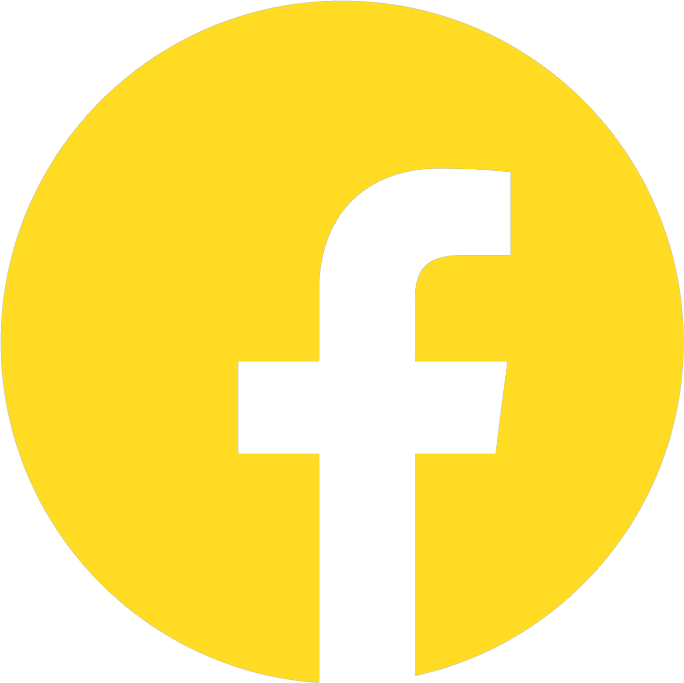
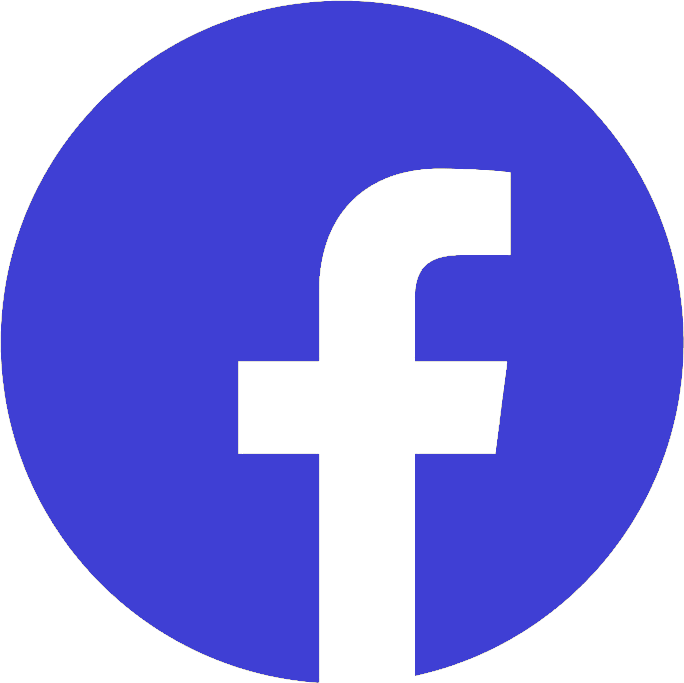
preliminary update

diff --git a/index.html b/index.html
@@ -27,9 +27,10 @@
 			<div class="logo"></div>
 
 			<div class="links">
-				<div class="link facebook" onClick="goLink('https://www.facebook.com/moldovakaratedo')"></div>
-				<div class="link instagram" onClick="goLink('https://www.instagram.com/moldovakaratewkf/')"></div>
-				<div class="link wkf" onClick="goLink('https://www.wkf.net/')"></div>
+				<div class="link" style="background-image: url(img/wkf-logo.png);" onClick="goLink('https://www.wkf.net/')"></div>
+				<div class="link" style="background-image: url(img/ekf.png);" onClick="goLink('http://www.europeankaratefederation.net/')"></div>
+				<div class="link" style="background-image: url(img/olympic-logo.png);" onClick="goLink('https://olympic.md/')"></div>
+				<div class="link" style="background-image: url(img/mec-logo.png);" onClick="goLink('https://mec.gov.md/ro')"></div>
 			</div>
 		</div>
 
@@ -37,7 +38,7 @@
 			<div><p class="text-head subhead">ORGANIZAȚIE SPORTIVĂ</p></div>
 			<div><p class="text-head big">Federația Națională</p></div>
 			<div><p class="text-head big">de Karate-Do</p></div>
-			<div><p class="text-head small">din Republica Moldova</p></div>
+			<div><p class="text-head small">din Republica Moldova WKF</p></div>
 		</div>
 
 		<!-- <div class="scroll"><a class="arrow" href="#godown"></a></div> -->
@@ -46,18 +47,22 @@
 	<div class="oficial" id="godown">
 		<div class="text-oficial">
 			<div class="subhead-oficial"><p>DESPRE NOI</p></div>
-			<div class="header-oficial"><p>FNK RM WKF este singurul reprezentant oficial în Republica Moldova al Federației Mondiale de Karate.</p></div>
+			<div class="header-oficial"><p>FNK RM WKF este, din anul 2008, reprezentantul oficial al Federației Mondiale de Karate WKF în Republica Moldova.</p></div>
 
 			<div class="main-oficial">
 				<div class="oficial-hr"><hr></div>
 				<!-- <p>侍の言葉</p> -->
 				<div class="smalltext-oficial">
-					<p class="small-subhead-oficial">Federația Națională de Karate-Do din Republica Moldova (WKF) are drept scop promovarea și dezvoltarea Karate-Do în Republica Moldova.</p>
-					<p>Este o organizație necomercială de nivel republican, fondată la 17 mai 2007.</p>
-					<p>La nivel național, FNK RM WKF este recunoscută de către Ministerul Justiției drept organizație de utilitate publică, 
-						conlucrând activ cu structurile sportive locale precum Comitetul Național Olimpic și Sportiv (CNOS) și Ministerul Educației și Cercetării.</p> 
-					<p>Pe planul internațional, este membră a Federației Mondiale de Karate 
-						(World Karate Federation) și a Federației Europene de Karate (European Karate Federation).</p>
+					<p class="small-subhead-oficial">Este o organizație necomercială de nivel republican, fondată la 17 mai 2007.</p>
+					<p>Președintele Federației este Oleg ABALIN, deținător al gradului 7 Dan, 
+						Antrenor Emerit al Republicii Moldova.</p>
+					<p>Federația Mondială de Karate (WKF) și Federația Europeană de Karate (EKF) (Președinte:
+						Antonio ESPINÓS) sunt recunoscute de Comitetul Internațional Olimpic (CIO). De asemenea, aceste
+						organizații fac parte din structura SportAccord - asociația globală a federațiilor sportive
+						internaționale, cu sediul la Lausanne, (Elveția) Switzerland.</p>
+					<p>Prima apariție a karate-ului WKF ca sport olimpic a avut loc în anul 2020, în țara de origine a
+						karate-ului, pe același stadion unde s-a desfășurat primul Campionat Mondial de Karate -
+						Nippon Budokan din Tokyo.</p>
 				</div>
 			</div>
 		</div>
@@ -115,16 +120,22 @@
 
 			<div class="main-oficial">
 				<div class="smalltext-oficial">
-					<p>Specializăm atât în sport-luptă Karate-Do, cât și în arta de Karate-Do - kata.</p>
-					<p>Te așteaptă competiții internaționale, gimnastica profilactică și terapeutică pentru corp puternic și spirit sănătos precum și activități pentru părinți alături de copii.</p>
-					<p>Posibil și carieră profesională în Karate-Do: arbitri, antrenori sau voluntari.</p>
-					<p>Vino tu și adu-ți copiii, devii parte din familia karateka!</p>
+					<p>La nivel național, Federația este recunoscută de Ministerul Justiției ca organizație de utilitate
+						publică și colaborează, de asemenea, cu Ministerul Educației și Cercetării, Comitetul Național
+						Olimpic și Sportiv, precum și cu alte structuri de stat și sportive, inclusiv Direcția Educație,
+						Tineret și Sport și Agenția Antidoping.</p> 
+					<p>La nivel internațional, FNK RM WKF este membră a Federației Mondiale de Karate WKF, care
+						numără 201 țări participante. În anul 2008, la Campionatul Mondial din Japonia, FNK RM WKF
+						a devenit reprezentant oficial al WKF. Primii sportivi care au participat au fost Oleg ABALIN și
+						Anna Maria STRATU, care au reprezentat Republica Moldova la Campionatele Mondiale de la
+						Tokyo, Japonia.</p>
+					<p><b>Vă invităm să deveniți parte a familiei WKF!</b></p>
 				</div>
 			</div>
 		</div>
 	</div>
 
-	<div class="bottom-form">
+	<!-- <div class="bottom-form">
 		<div class="bottom-image">
 			<div class="subhead-oficial" style="color: #ffdc23;"><p>FEEDBACK</p></div>
 			<div class="header-oficial" style="color: white; text-shadow: 5px 7px 10px rgba(0, 0, 0, 0.3);"><p>Aveți intrebări? Contactați-ne!</p></div>
@@ -142,7 +153,7 @@
 				<div class="for-button"><button class="send" type="submit">TRIMITE MESAJ</button></div>
 			</form>
 		</div>
-	</div>
+	</div> -->
 
 	<div class="contacts">
 		<div class="contact-child">
@@ -150,7 +161,7 @@
 			<div>
 				<div class="footer-text for-icon">
 					<div class="icon ico1"></div>
-					<p style="padding-top: 0.2vw;">Adresă: Chișinău, str.Dacia 38/6 ap.92</p>
+					<p style="padding-top: 0.2vw;">Adresă: Republica Moldova, Chișinău, MD-2062, str.Dacia 38/6 ap.92</p>
 				</div>
 				<div class="footer-text for-icon">
 					<div class="icon ico2"></div>
@@ -159,7 +170,11 @@
 				<div class="footer-text for-icon">
 					<div class="icon ico3"></div>
 					<p style="padding-top: 0.2vw;">Email: <a class="email" href="https://mail.google.com/mail/u/0/?view=cm&fs=1&to=mda.wkf@gmail.com">mda.wkf@gmail.com</a></p>
-				</div>	
+				</div>
+				<div class="footer-text for-icon" style="margin-top: 2.5vh;">
+					<div class="icon link facebook" onClick="goLink('https://www.facebook.com/moldovakaratedo')"></div>
+					<div class="icon link instagram" onClick="goLink('https://www.instagram.com/moldovakaratewkf/')"></div>
+				</div>
 			</div>
 		</div>
 		
@@ -190,7 +205,7 @@
 	</div>
 
 	<div class="copyright">
-		<div><p>© Federația Națională de KarateDo din Republica Moldova, 2022-2026</p></div>
+		<div><p>© Federația Națională de KarateDo din Republica Moldova WKF, 2022-2026</p></div>
 		<div class="footer-align"><p>Made by <a onClick="goLink('https://vyshnovka.github.io/')">vyshnovka</a></p></div>
 	</div>
 </body>

diff --git a/css/default.css b/css/default.css
@@ -25,16 +25,16 @@
 
 .logo {
     margin-top: 3%;
-    width: 65%;
+    width: 50%;
     height: 70%;
-    background-image: url(../img/logo.png);
+    background-image: url(../img/ico.png);
     background-size: contain;
     background-repeat: no-repeat;
     background-position: left bottom;
 }
 
 .links {
-    width: 15%;
+    width: 25%;
     height: 100%;
     display: flex;
     flex-direction: row;
@@ -43,18 +43,13 @@
 }
 
 .link {
-    margin: 0 3%;
     width: 20%;
-    height: 23%;
+    height: 35%;
     background-size: contain;
     background-repeat: no-repeat;
     background-position: center center;
     cursor: pointer;
     transition: 0.5s;
-}
-
-.wkf {
-    background-image: url(../img/wkf-logo.png);
 }
 
 .facebook {
@@ -94,7 +89,7 @@
 .subhead {
     margin-bottom: 2vw;
     font-size: 1.4vw;
-    color: #ffdc23;
+    color: #3f3fd4;
 }
 
 .big {
@@ -149,7 +144,7 @@
     margin-right: 10vw;
     width: 35vw;
     height: 40vw;
-    background-image: url(../img/oficial-pic.jpg);
+    background-image: url(../img/oficial-pic.jpeg);
     background-size: contain;
     background-repeat: no-repeat;
     background-position: right top;
@@ -193,7 +188,7 @@
 
 .oficial-hr hr {
     border: none;
-    background-color: #ffdc23;
+    background-color: #3f3fd4;
     height: 3px;
 }
 
@@ -351,7 +346,7 @@
     bottom: 0;
     left: 25vw;
     background-color: white;
-    border-bottom: 4px solid #ffdc23;
+    border-bottom: 4px solid #3f3fd4;
 }
 
 .form-inputs {
@@ -398,7 +393,7 @@ textarea {
 }
 
 .send:hover {
-	background-color: #ffdc23;
+	background-color: #3f3fd4;
 	color: #ffffff;
 }
 
@@ -441,7 +436,7 @@ textarea {
 /** CONTACTS AND DOCUMENTS */
 
 .contacts {
-    margin: 13vh 10vw 10vh 10vw;
+    margin: 5vh 10vw 10vh 10vw;
     width: 100%;
 	height: auto;
 	display: flex;
@@ -494,6 +489,10 @@ textarea {
     background-position: left bottom;
 }
 
+.contacts .link {
+    margin: 0 1vw 0 0;
+}
+
 .ico1 {
 	background-image: url(../img/adresa.png);
 }
@@ -512,7 +511,7 @@ textarea {
 }
 
 .doc:hover {
-	color: #ffdc23;
+	color: #3f3fd4;
 }
 
 
@@ -537,7 +536,7 @@ textarea {
 
 .copyright a {
 	text-decoration: none;
-	color: #ffdc23;
+	color: #3f3fd4;
     cursor: pointer;
 }
 

diff --git a/css/media.css b/css/media.css
@@ -14,7 +14,7 @@
         width: 50%;
         height: 100%;
     }
-    
+
     .subhead {
         margin-bottom: 5vh;
         font-size: 5vw;
